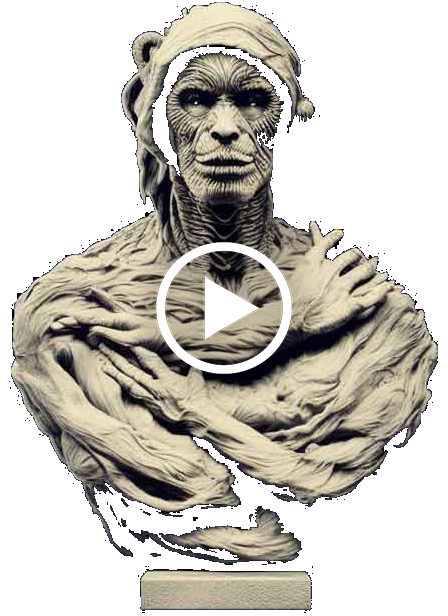
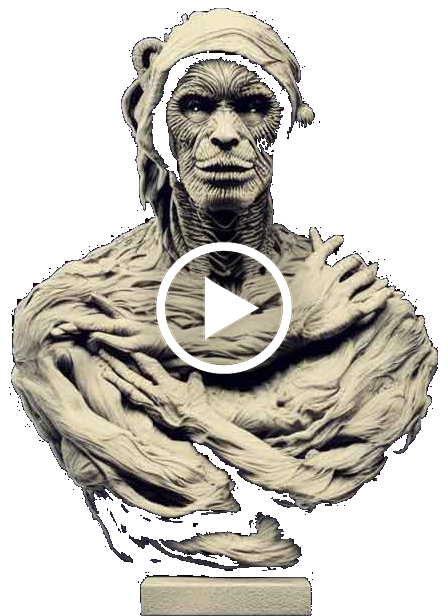
feat: add video thumbnail images and implement chromakey video trigger functionality

diff --git a/www/static/quotes/estoicismo-01/dist/index.html b/www/static/quotes/estoicismo-01/dist/index.html
@@ -1,1 +1,75 @@
-<!doctype html><html><head><meta name="viewport" content="width=device-width,initial-scale=1,user-scalable=no"/><meta name="apple-mobile-web-app-capable" content="yes"/><link rel="icon" type="image/png" href="assets/images/favicon.png"/><title>Socrates.es - Todos los hombres son mortales, Socrates es un hombre, Socrates es mortal.</title><script crossorigin="anonymous" src="./external/scripts/8frame-1.5.0.min.js"></script><script src="https://cdn.jsdelivr.net/npm/@8thwall/engine-binary@1/dist/xr.js" async crossorigin="anonymous" data-preload-chunks="slam"></script><script src="https://cdn.jsdelivr.net/npm/@8thwall/landing-page@1/dist/landing-page.js" crossorigin="anonymous"></script><script src="https://cdn.jsdelivr.net/npm/@8thwall/xrextras@1/dist/xrextras.js" crossorigin="anonymous"></script><script src="https://unpkg.com/aframe-chromakey-material@1.1.4/dist/aframe-chromakey-material.min.js"></script><style>#quoteWrapper{display:flex;align-items:center;justify-content:center;position:absolute;z-index:1000;position:fixed;bottom:20px;width:100%;padding:2rem 0;font-family:Figtree,ui-sans-serif,system-ui,-apple-system,BlinkMacSystemFont,Segoe UI,Roboto,Helvetica Neue,Arial,Noto Sans,sans-serif,"Apple Color Emoji","Segoe UI Emoji",Segoe UI Symbol,"Noto Color Emoji";font-feature-settings:normal;font-variation-settings:normal}#quote{max-width:100%;background:rgba(0,0,0,.5);color:#fff}#quote div{text-align:center;padding:0 1em 0 1em}h1,h3{font-weight:300}#quoteH1{font-size:1.4rem;line-height:1.4rem}#quoteH3{font-size:1rem;line-height:1.4rem}</style></head><body><script src="bundle.js"></script><a-scene xrextras-gesture-detector landing-page xrextras-loading xrextras-runtime-error renderer="colorManagement:true" xrweb="disableWorldTracking: true"><a-assets><video id="socrates-video" crossorigin="anonymous" playsinline webkit-playsinline src="assets/videos/socrates_01_bg_sm22.mp4#t=0.001"></video><video id="diogenes-video" crossorigin="anonymous" playsinline webkit-playsinline src="assets/videos/diogenes_01_bg_sm22.mp4#t=0.001"></video><video id="cleantes-video" crossorigin="anonymous" playsinline webkit-playsinline src="assets/videos/cleantes_01_bg_sm22.mp4#t=0.001"></video><video id="zenon-video" crossorigin="anonymous" playsinline webkit-playsinline src="assets/videos/zenon_02_bg_sm22.mp4#t=0.001"></video></a-assets><a-camera position="0 4 10" raycaster="objects: .cantap" cursor="fuse: false; rayOrigin: mouse;"></a-camera><a-light type="directional" intensity="0.5" position="1 1 1"></a-light><a-light type="ambient" intensity="1"></a-light><xrextras-named-image-target name="socrates_01" id="socrates"><a-entity id="socrates-target-video-element" xrextras-play-video="video: #socrates-video; canstop: true" geometry="primitive: plane; height: 1.07; width: 0.8;" material="shader: chromakey; src: #socrates-video; color: 0 1 0"></a-entity></xrextras-named-image-target><xrextras-named-image-target name="diogenes_01" id="diogenes"><a-entity id="diogenes-target-video-element" xrextras-play-video="video: #diogenes-video; canstop: true" geometry="primitive: plane; height: 1.07; width: 0.8;" material="shader: chromakey; src: #diogenes-video; color: 0 1 0"></a-entity></xrextras-named-image-target><xrextras-named-image-target name="cleantes_01" id="cleantes"><a-entity id="cleantes-target-video-element" xrextras-play-video="video: #cleantes-video; canstop: true" geometry="primitive: plane; height: 1.07; width: 0.8;" material="shader: chromakey; src: #cleantes-video; color: 0 1 0"></a-entity></xrextras-named-image-target><xrextras-named-image-target name="zenon_02" id="zenon"><a-entity id="zenon-target-video-element" xrextras-play-video="video: #zenon-video; canstop: true" geometry="primitive: plane; height: 1.07; width: 0.8;" material="shader: chromakey; src: #zenon-video; color: 0 1 0"></a-entity></xrextras-named-image-target></a-scene><script>document.addEventListener("DOMContentLoaded",()=>{const e=["#socrates","#diogenes","#cleantes","#zenon"],t=["#socrates-video","#diogenes-video","#cleantes-video","#zenon-video"],n=["#socrates-target-video-element","#diogenes-target-video-element","#cleantes-target-video-element","#zenon-target-video-element"];for(let d=0;d<e.length;d++){const o=document.getElementById(e[d]),s=document.getElementById(t[d]),i=document.getElementById(n[d]);o&&s&&i&&(o.addEventListener("xrextraslost",()=>{s.paused||i.emit("click"),s.pause(),s.currentTime=0}),s.addEventListener("ended",e=>{i.emit("click"),s.currentTime=0}))}})</script></body></html>
+<!doctype html><html><head><meta name="viewport" content="width=device-width,initial-scale=1,user-scalable=no"/><meta name="apple-mobile-web-app-capable" content="yes"/><link rel="icon" type="image/png" href="assets/images/favicon.png"/><title>Socrates.es - Todos los hombres son mortales, Socrates es un hombre, Socrates es mortal.</title><script crossorigin="anonymous" src="./external/scripts/8frame-1.5.0.min.js"></script><script src="https://cdn.jsdelivr.net/npm/@8thwall/engine-binary@1/dist/xr.js" async crossorigin="anonymous" data-preload-chunks="slam"></script><script src="https://cdn.jsdelivr.net/npm/@8thwall/landing-page@1/dist/landing-page.js" crossorigin="anonymous"></script><script src="https://cdn.jsdelivr.net/npm/@8thwall/xrextras@1/dist/xrextras.js" crossorigin="anonymous"></script><script src="https://unpkg.com/aframe-chromakey-material@1.1.4/dist/aframe-chromakey-material.min.js"></script><script>AFRAME.registerComponent("chromakey-video-trigger",{schema:{video:{type:"selector"},videoPlane:{type:"selector"}},init:function(){const e=this.data.video,t=this.data.videoPlane,i=this.el;i.addEventListener("click",()=>{i.setAttribute("visible","false"),t.setAttribute("visible","true"),e.play().catch(e=>{console.error("Unable to play video:",e),i.setAttribute("visible","true"),t.setAttribute("visible","false")})})}})</script><style>#quoteWrapper{display:flex;align-items:center;justify-content:center;position:absolute;z-index:1000;position:fixed;bottom:20px;width:100%;padding:2rem 0;font-family:Figtree,ui-sans-serif,system-ui,-apple-system,BlinkMacSystemFont,Segoe UI,Roboto,Helvetica Neue,Arial,Noto Sans,sans-serif,"Apple Color Emoji","Segoe UI Emoji",Segoe UI Symbol,"Noto Color Emoji";font-feature-settings:normal;font-variation-settings:normal}#quote{max-width:100%;background:rgba(0,0,0,.5);color:#fff}#quote div{text-align:center;padding:0 1em 0 1em}h1,h3{font-weight:300}#quoteH1{font-size:1.4rem;line-height:1.4rem}#quoteH3{font-size:1rem;line-height:1.4rem}</style></head><body><script src="bundle.js"></script><a-scene xrextras-gesture-detector landing-page xrextras-loading xrextras-runtime-error renderer="colorManagement:true" xrweb="disableWorldTracking: true"><a-assets><img id="socrates-thumb" src="assets/images/thumbs/socrates_01_play.jpg"/> <img id="diogenes-thumb" src="assets/images/thumbs/diogenes_01_play.jpg"/> <img id="cleantes-thumb" src="assets/images/thumbs/cleantes_01_play.jpg"/> <img id="zenon-thumb" src="assets/images/thumbs/zenon_02_play.jpg"/><video id="socrates-video" crossorigin="anonymous" playsinline webkit-playsinline src="assets/videos/socrates_01_bg_sm22.mp4#t=0.001"></video><video id="diogenes-video" crossorigin="anonymous" playsinline webkit-playsinline src="assets/videos/diogenes_01_bg_sm22.mp4#t=0.001"></video><video id="cleantes-video" crossorigin="anonymous" playsinline webkit-playsinline src="assets/videos/cleantes_01_bg_sm22.mp4#t=0.001"></video><video id="zenon-video" crossorigin="anonymous" playsinline webkit-playsinline src="assets/videos/zenon_02_bg_sm22.mp4#t=0.001"></video></a-assets><a-camera position="0 4 10" raycaster="objects: .cantap" cursor="fuse: false; rayOrigin: mouse;"></a-camera><a-light type="directional" intensity="0.5" position="1 1 1"></a-light><a-light type="ambient" intensity="1"></a-light><xrextras-named-image-target name="socrates_01" id="socrates"><a-entity id="socrates-target-video-element" geometry="primitive: plane; height: 1.07; width: 0.8;" material="shader: chromakey; src: #socrates-video; color: 0 1 0" visible="false"></a-entity><a-entity id="socrates-target-thumb-element" class="cantap" chromakey-video-trigger geometry="primitive: plane; height: 1.07; width: 0.8;" material="shader: flat; src: #socrates-thumb; transparent: true"></a-entity></xrextras-named-image-target><xrextras-named-image-target name="diogenes_01" id="diogenes"><a-entity id="diogenes-target-video-element" geometry="primitive: plane; height: 1.07; width: 0.8;" material="shader: chromakey; src: #diogenes-video; color: 0 1 0" visible="false"></a-entity><a-entity id="diogenes-target-thumb-element" class="cantap" chromakey-video-trigger geometry="primitive: plane; height: 1.07; width: 0.8;" material="shader: flat; src: #diogenes-thumb; transparent: true"></a-entity></xrextras-named-image-target><xrextras-named-image-target name="cleantes_01" id="cleantes"><a-entity id="cleantes-target-video-element" geometry="primitive: plane; height: 1.07; width: 0.8;" material="shader: chromakey; src: #cleantes-video; color: 0 1 0" visible="false"></a-entity><a-entity id="cleantes-target-thumb-element" class="cantap" chromakey-video-trigger geometry="primitive: plane; height: 1.07; width: 0.8;" material="shader: flat; src: #cleantes-thumb; transparent: true"></a-entity></xrextras-named-image-target><xrextras-named-image-target name="zenon_02" id="zenon"><a-entity id="zenon-target-video-element" geometry="primitive: plane; height: 1.07; width: 0.8;" material="shader: chromakey; src: #zenon-video; color: 0 1 0" visible="false"></a-entity><a-entity id="zenon-target-thumb-element" class="cantap" chromakey-video-trigger geometry="primitive: plane; height: 1.07; width: 0.8;" material="shader: flat; src: #zenon-thumb; transparent: true"></a-entity></xrextras-named-image-target></a-scene><div id="quoteWrapper"><div id="quote" class=""><div><h3 class="" id="quoteH3"></h3><h1 class="" id="quoteH1"></h1></div></div></div><script>document.addEventListener('DOMContentLoaded', () => {
+                quoteH3 = document.getElementById("quoteH3");
+                quoteH1 = document.getElementById("quoteH1");
+
+                const targets = [
+                    {
+                        id: 'socrates',
+                        video: 'socrates-video',
+                        videoPlane: 'socrates-target-video-element',
+                        thumbPlane: 'socrates-target-thumb-element',
+                        name: "Sócrates",
+                        quote: "Solo sé que no sé nada.",
+                    },
+                    {
+                        id: 'diogenes',
+                        video: 'diogenes-video',
+                        videoPlane: 'diogenes-target-video-element',
+                        thumbPlane: 'diogenes-target-thumb-element',
+                        name: "",
+                        quote: "",
+                    },
+                    {
+                        id: 'cleantes',
+                        video: 'cleantes-video',
+                        videoPlane: 'cleantes-target-video-element',
+                        thumbPlane: 'cleantes-target-thumb-element',
+                        name: "",
+                        quote: "",
+                    },
+                    {
+                        id: 'zenon',
+                        video: 'zenon-video',
+                        videoPlane: 'zenon-target-video-element',
+                        thumbPlane: 'zenon-target-thumb-element',
+                        name: "",
+                        quote: "",
+                    }
+                ];
+
+                targets.forEach(({ id, video: videoId, videoPlane: videoPlaneId, thumbPlane: thumbPlaneId, name, quote }) => {
+                    const target = document.getElementById(id);
+                    const video = document.getElementById(videoId);
+                    const videoPlane = document.getElementById(videoPlaneId);
+                    const thumbPlane = document.getElementById(thumbPlaneId);
+                    const 
+
+                    if (!target || !video || !videoPlane || !thumbPlane) {
+                        console.error(`Missing video target elements for ${id}`);
+                        return;
+                    }
+
+                    const showThumb = () => {
+                        thumbPlane.setAttribute('visible', 'true');
+                        videoPlane.setAttribute('visible', 'false');
+                    };
+
+                    target.addEventListener('xrextrasfound', () => {
+                        quoteH3.innerHtml = name;
+                        quoteH1.innerHtml = quote;
+                    });
+
+                    target.addEventListener('xrextraslost', () => {
+                        showThumb();
+                        video.pause();
+                        video.currentTime = 0;
+                        quoteH3.innerHtml = "";
+                        quoteH1.innerHtml = "";
+                    });
+
+                    video.addEventListener('ended', () => {
+                        showThumb();
+                        video.currentTime = 0;
+                    });
+                });
+            });</script></body></html>

diff --git a/www/static/quotes/estoicismo-01/src/index.html b/www/static/quotes/estoicismo-01/src/index.html
@@ -29,6 +29,29 @@
             crossorigin="anonymous"
         ></script>
         <script src="https://unpkg.com/aframe-chromakey-material@1.1.4/dist/aframe-chromakey-material.min.js"></script>
+        <script>
+            AFRAME.registerComponent('chromakey-video-trigger', {
+                schema: {
+                    video: { type: 'selector' },
+                    videoPlane: { type: 'selector' }
+                },
+                init: function () {
+                    const video = this.data.video;
+                    const videoPlane = this.data.videoPlane;
+                    const thumbPlane = this.el;
+
+                    thumbPlane.addEventListener('click', () => {
+                        thumbPlane.setAttribute('visible', 'false');
+                        videoPlane.setAttribute('visible', 'true');
+                        video.play().catch((error) => {
+                            console.error('Unable to play video:', error);
+                            thumbPlane.setAttribute('visible', 'true');
+                            videoPlane.setAttribute('visible', 'false');
+                        });
+                    });
+                }
+            });
+        </script>
 
         <style>
             #quoteWrapper {
@@ -84,6 +107,23 @@
             xrweb="disableWorldTracking: true"
         >
             <a-assets>
+                <img
+                    id="socrates-thumb"
+                    src="assets/images/thumbs/socrates_01_play.jpg"
+                />
+                <img
+                    id="diogenes-thumb"
+                    src="assets/images/thumbs/diogenes_01_play.jpg"
+                />
+                <img
+                    id="cleantes-thumb"
+                    src="assets/images/thumbs/cleantes_01_play.jpg"
+                />
+                <img
+                    id="zenon-thumb"
+                    src="assets/images/thumbs/zenon_02_play.jpg"
+                />
+
                 <video
                     id="socrates-video"
                     crossorigin="anonymous"
@@ -91,7 +131,6 @@
                     webkit-playsinline
                     src="assets/videos/socrates_01_bg_sm22.mp4#t=0.001"
                 ></video>
-
                 <video
                     id="diogenes-video"
                     crossorigin="anonymous"
@@ -99,7 +138,6 @@
                     webkit-playsinline
                     src="assets/videos/diogenes_01_bg_sm22.mp4#t=0.001"
                 ></video>
-
                 <video
                     id="cleantes-video"
                     crossorigin="anonymous"
@@ -107,7 +145,6 @@
                     webkit-playsinline
                     src="assets/videos/cleantes_01_bg_sm22.mp4#t=0.001"
                 ></video>
-
                 <video
                     id="zenon-video"
                     crossorigin="anonymous"
@@ -135,9 +172,17 @@
             <xrextras-named-image-target name="socrates_01" id="socrates">
                 <a-entity 
                     id="socrates-target-video-element"
-                    xrextras-play-video="video: #socrates-video; canstop: true"
                     geometry="primitive: plane; height: 1.07; width: 0.8;"
                     material="shader: chromakey; src: #socrates-video; color: 0 1 0" 
+                    visible="false"
+                >
+                </a-entity>
+                <a-entity
+                    id="socrates-target-thumb-element"
+                    class="cantap"
+                    chromakey-video-trigger
+                    geometry="primitive: plane; height: 1.07; width: 0.8;"
+                    material="shader: flat; src: #socrates-thumb; transparent: true"
                 >
                 </a-entity>
             </xrextras-named-image-target>
@@ -145,9 +190,17 @@
             <xrextras-named-image-target name="diogenes_01" id="diogenes">
                 <a-entity 
                     id="diogenes-target-video-element"
-                    xrextras-play-video="video: #diogenes-video; canstop: true"
                     geometry="primitive: plane; height: 1.07; width: 0.8;"
                     material="shader: chromakey; src: #diogenes-video; color: 0 1 0" 
+                    visible="false"
+                >
+                </a-entity>
+                <a-entity
+                    id="diogenes-target-thumb-element"
+                    class="cantap"
+                    chromakey-video-trigger
+                    geometry="primitive: plane; height: 1.07; width: 0.8;"
+                    material="shader: flat; src: #diogenes-thumb; transparent: true"
                 >
                 </a-entity>
             </xrextras-named-image-target>
@@ -155,9 +208,17 @@
             <xrextras-named-image-target name="cleantes_01" id="cleantes">
                 <a-entity 
                     id="cleantes-target-video-element"
-                    xrextras-play-video="video: #cleantes-video; canstop: true"
                     geometry="primitive: plane; height: 1.07; width: 0.8;"
                     material="shader: chromakey; src: #cleantes-video; color: 0 1 0" 
+                    visible="false"
+                >
+                </a-entity>
+                <a-entity
+                    id="cleantes-target-thumb-element"
+                    class="cantap"
+                    chromakey-video-trigger
+                    geometry="primitive: plane; height: 1.07; width: 0.8;"
+                    material="shader: flat; src: #cleantes-thumb; transparent: true"
                 >
                 </a-entity>
             </xrextras-named-image-target>
@@ -165,60 +226,106 @@
             <xrextras-named-image-target name="zenon_02" id="zenon">
                 <a-entity 
                     id="zenon-target-video-element"
-                    xrextras-play-video="video: #zenon-video; canstop: true"
                     geometry="primitive: plane; height: 1.07; width: 0.8;"
                     material="shader: chromakey; src: #zenon-video; color: 0 1 0" 
+                    visible="false"
+                >
+                </a-entity>
+                <a-entity
+                    id="zenon-target-thumb-element"
+                    class="cantap"
+                    chromakey-video-trigger
+                    geometry="primitive: plane; height: 1.07; width: 0.8;"
+                    material="shader: flat; src: #zenon-thumb; transparent: true"
                 >
                 </a-entity>
             </xrextras-named-image-target>
         </a-scene>
 
-        <!-- <div id="quoteWrapper">
+        <div id="quoteWrapper">
             <div id="quote" class="">
                 <div>
-                    <h3 class="" id="quoteH3">Cita del filosofo</h3>
-                    <h1 class="" id="quoteH1">Nombre</h1>
+                    <h3 class="" id="quoteH3"></h3>
+                    <h1 class="" id="quoteH1"></h1>
                 </div>
             </div>
-        </div> -->
+        </div>
 
         <script>
             document.addEventListener('DOMContentLoaded', () => {
+                quoteH3 = document.getElementById("quoteH3");
+                quoteH1 = document.getElementById("quoteH1");
+
                 const targets = [
-                    "#socrates", "#diogenes", "#cleantes", "#zenon" 
-                ]
-                const videos = [
-                    "#socrates-video", "#diogenes-video", "#cleantes-video", "#zenon-video"
-                ]
-                const planes = [
-                    "#socrates-target-video-element",
-                    "#diogenes-target-video-element",
-                    "#cleantes-target-video-element",
-                    "#zenon-target-video-element"
-                ]
+                    {
+                        id: 'socrates',
+                        video: 'socrates-video',
+                        videoPlane: 'socrates-target-video-element',
+                        thumbPlane: 'socrates-target-thumb-element',
+                        name: "Sócrates",
+                        quote: "Solo sé que no sé nada.",
+                    },
+                    {
+                        id: 'diogenes',
+                        video: 'diogenes-video',
+                        videoPlane: 'diogenes-target-video-element',
+                        thumbPlane: 'diogenes-target-thumb-element',
+                        name: "",
+                        quote: "",
+                    },
+                    {
+                        id: 'cleantes',
+                        video: 'cleantes-video',
+                        videoPlane: 'cleantes-target-video-element',
+                        thumbPlane: 'cleantes-target-thumb-element',
+                        name: "",
+                        quote: "",
+                    },
+                    {
+                        id: 'zenon',
+                        video: 'zenon-video',
+                        videoPlane: 'zenon-target-video-element',
+                        thumbPlane: 'zenon-target-thumb-element',
+                        name: "",
+                        quote: "",
+                    }
+                ];
 
-                for (let index=0; index< targets.length; index++) {
-                    const t = document.getElementById(targets[index]);
-                    const v = document.getElementById(videos[index]);
-                    const p = document.getElementById(planes[index]);
+                targets.forEach(({ id, video: videoId, videoPlane: videoPlaneId, thumbPlane: thumbPlaneId, name, quote }) => {
+                    const target = document.getElementById(id);
+                    const video = document.getElementById(videoId);
+                    const videoPlane = document.getElementById(videoPlaneId);
+                    const thumbPlane = document.getElementById(thumbPlaneId);
+                    const 
 
-                    if (!t || !v || !p) {
-                        continue;
+                    if (!target || !video || !videoPlane || !thumbPlane) {
+                        console.error(`Missing video target elements for ${id}`);
+                        return;
                     }
 
-                    t.addEventListener('xrextraslost', () => {
-                        if (!v.paused) {
-                            p.emit('click'); // lets xrextras-play-video reset its internal state
-                        }
-                        v.pause();
-                        v.currentTime = 0;
+                    const showThumb = () => {
+                        thumbPlane.setAttribute('visible', 'true');
+                        videoPlane.setAttribute('visible', 'false');
+                    };
+
+                    target.addEventListener('xrextrasfound', () => {
+                        quoteH3.innerHtml = name;
+                        quoteH1.innerHtml = quote;
                     });
 
-                    v.addEventListener("ended", (event) => {
-                        p.emit('click'); // lets xrextras-play-video reset its internal state
-                        v.currentTime = 0;
+                    target.addEventListener('xrextraslost', () => {
+                        showThumb();
+                        video.pause();
+                        video.currentTime = 0;
+                        quoteH3.innerHtml = "";
+                        quoteH1.innerHtml = "";
                     });
-                }
+
+                    video.addEventListener('ended', () => {
+                        showThumb();
+                        video.currentTime = 0;
+                    });
+                });
             });
         </script>
     </body>
